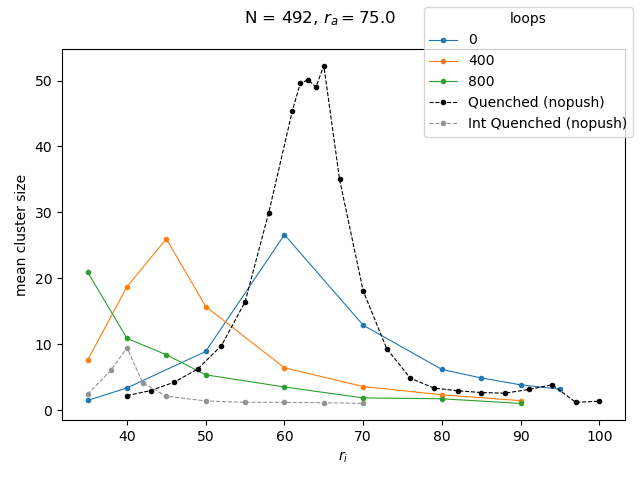
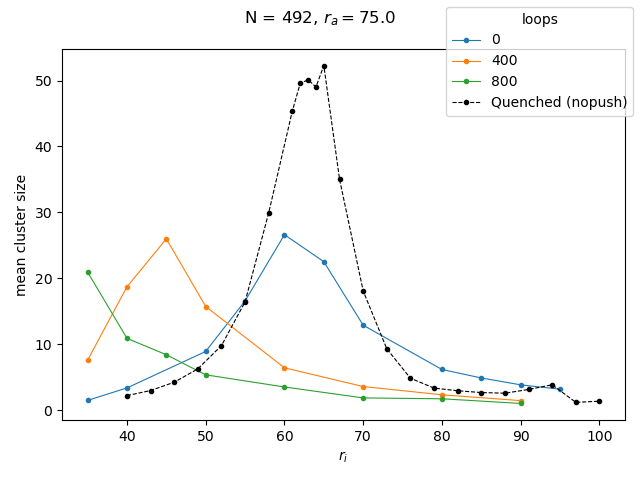
work 9 feb

diff --git a/prw_network/percolation.py b/prw_network/percolation.py
@@ -6,11 +6,11 @@ import os
 import glob
 import matplotlib.pyplot as plt
 
-# N = 492
-# arena_r = 75.0
+N = 492
+arena_r = 75.0
 speed = 9
-N = 35
-arena_r = 20.0
+# N = 35
+# arena_r = 20.0
 # speed = 7
 speedVar = 2
 contactsPath = 'raw_json_files/RWDIS_mod/configs/contacts/'
@@ -324,19 +324,19 @@ def plotAvgDegree(N, arena_r, irs_loops_dic, loops_list, quenched=False):
     fig.savefig(f'avgDegree_N_{N}_ar_{arena_r}_speed_{speed}_speedVar_{speedVar}_diffloops.png')
 
 # per les dades N=35, speed 9
-irs_loops_dic = {
-    0: [35.0, 40.0, 50.0, 60.0, 70.0, 80.0, 90.0, 100.0, 110.0],
-    400: [35.0, 40.0, 45.0, 50.0, 55.0, 60.0, 65.0, 70.0, 75.0, 80.0, 90.0, 100.0, 110.0],
-    800: [35.0, 40.0, 45.0, 50.0, 55.0, 60.0, 65.0, 70.0, 75.0, 80.0, 90.0, 100.0, 110.0],
-    1200: [40.0, 50.0, 60.0, 65.0, 70.0, 75.0, 80.0, 90.0]
-}
+# irs_loops_dic = {
+#     0: [35.0, 40.0, 50.0, 60.0, 70.0, 80.0, 90.0, 100.0, 110.0],
+#     400: [35.0, 40.0, 45.0, 50.0, 55.0, 60.0, 65.0, 70.0, 75.0, 80.0, 90.0, 100.0, 110.0],
+#     800: [35.0, 40.0, 45.0, 50.0, 55.0, 60.0, 65.0, 70.0, 75.0, 80.0, 90.0, 100.0, 110.0],
+#     1200: [40.0, 50.0, 60.0, 65.0, 70.0, 75.0, 80.0, 90.0]
+# }
 
 # per les dades N=492, speed 9
-# irs_loops_dic = {
-#     0: [35.0, 40.0, 50.0, 60.0, 70.0, 80.0, 85.0, 90.0, 95.0],
-#     400: [35.0, 40.0, 45.0, 50.0, 60.0, 70.0, 80.0, 90.0],
-#     800: [35.0, 40.0, 45.0, 50.0, 60.0, 70.0, 80.0, 90.0]
-# }
+irs_loops_dic = {
+    0: [35.0, 40.0, 50.0, 55.0, 60.0, 65.0, 70.0, 80.0, 85.0, 90.0, 95.0],
+    400: [35.0, 40.0, 45.0, 50.0, 60.0, 70.0, 80.0, 90.0],
+    800: [35.0, 40.0, 45.0, 50.0, 60.0, 70.0, 80.0, 90.0]
+}
 
 # per les dades amb speed 7
 # irs_loops_dic = {
